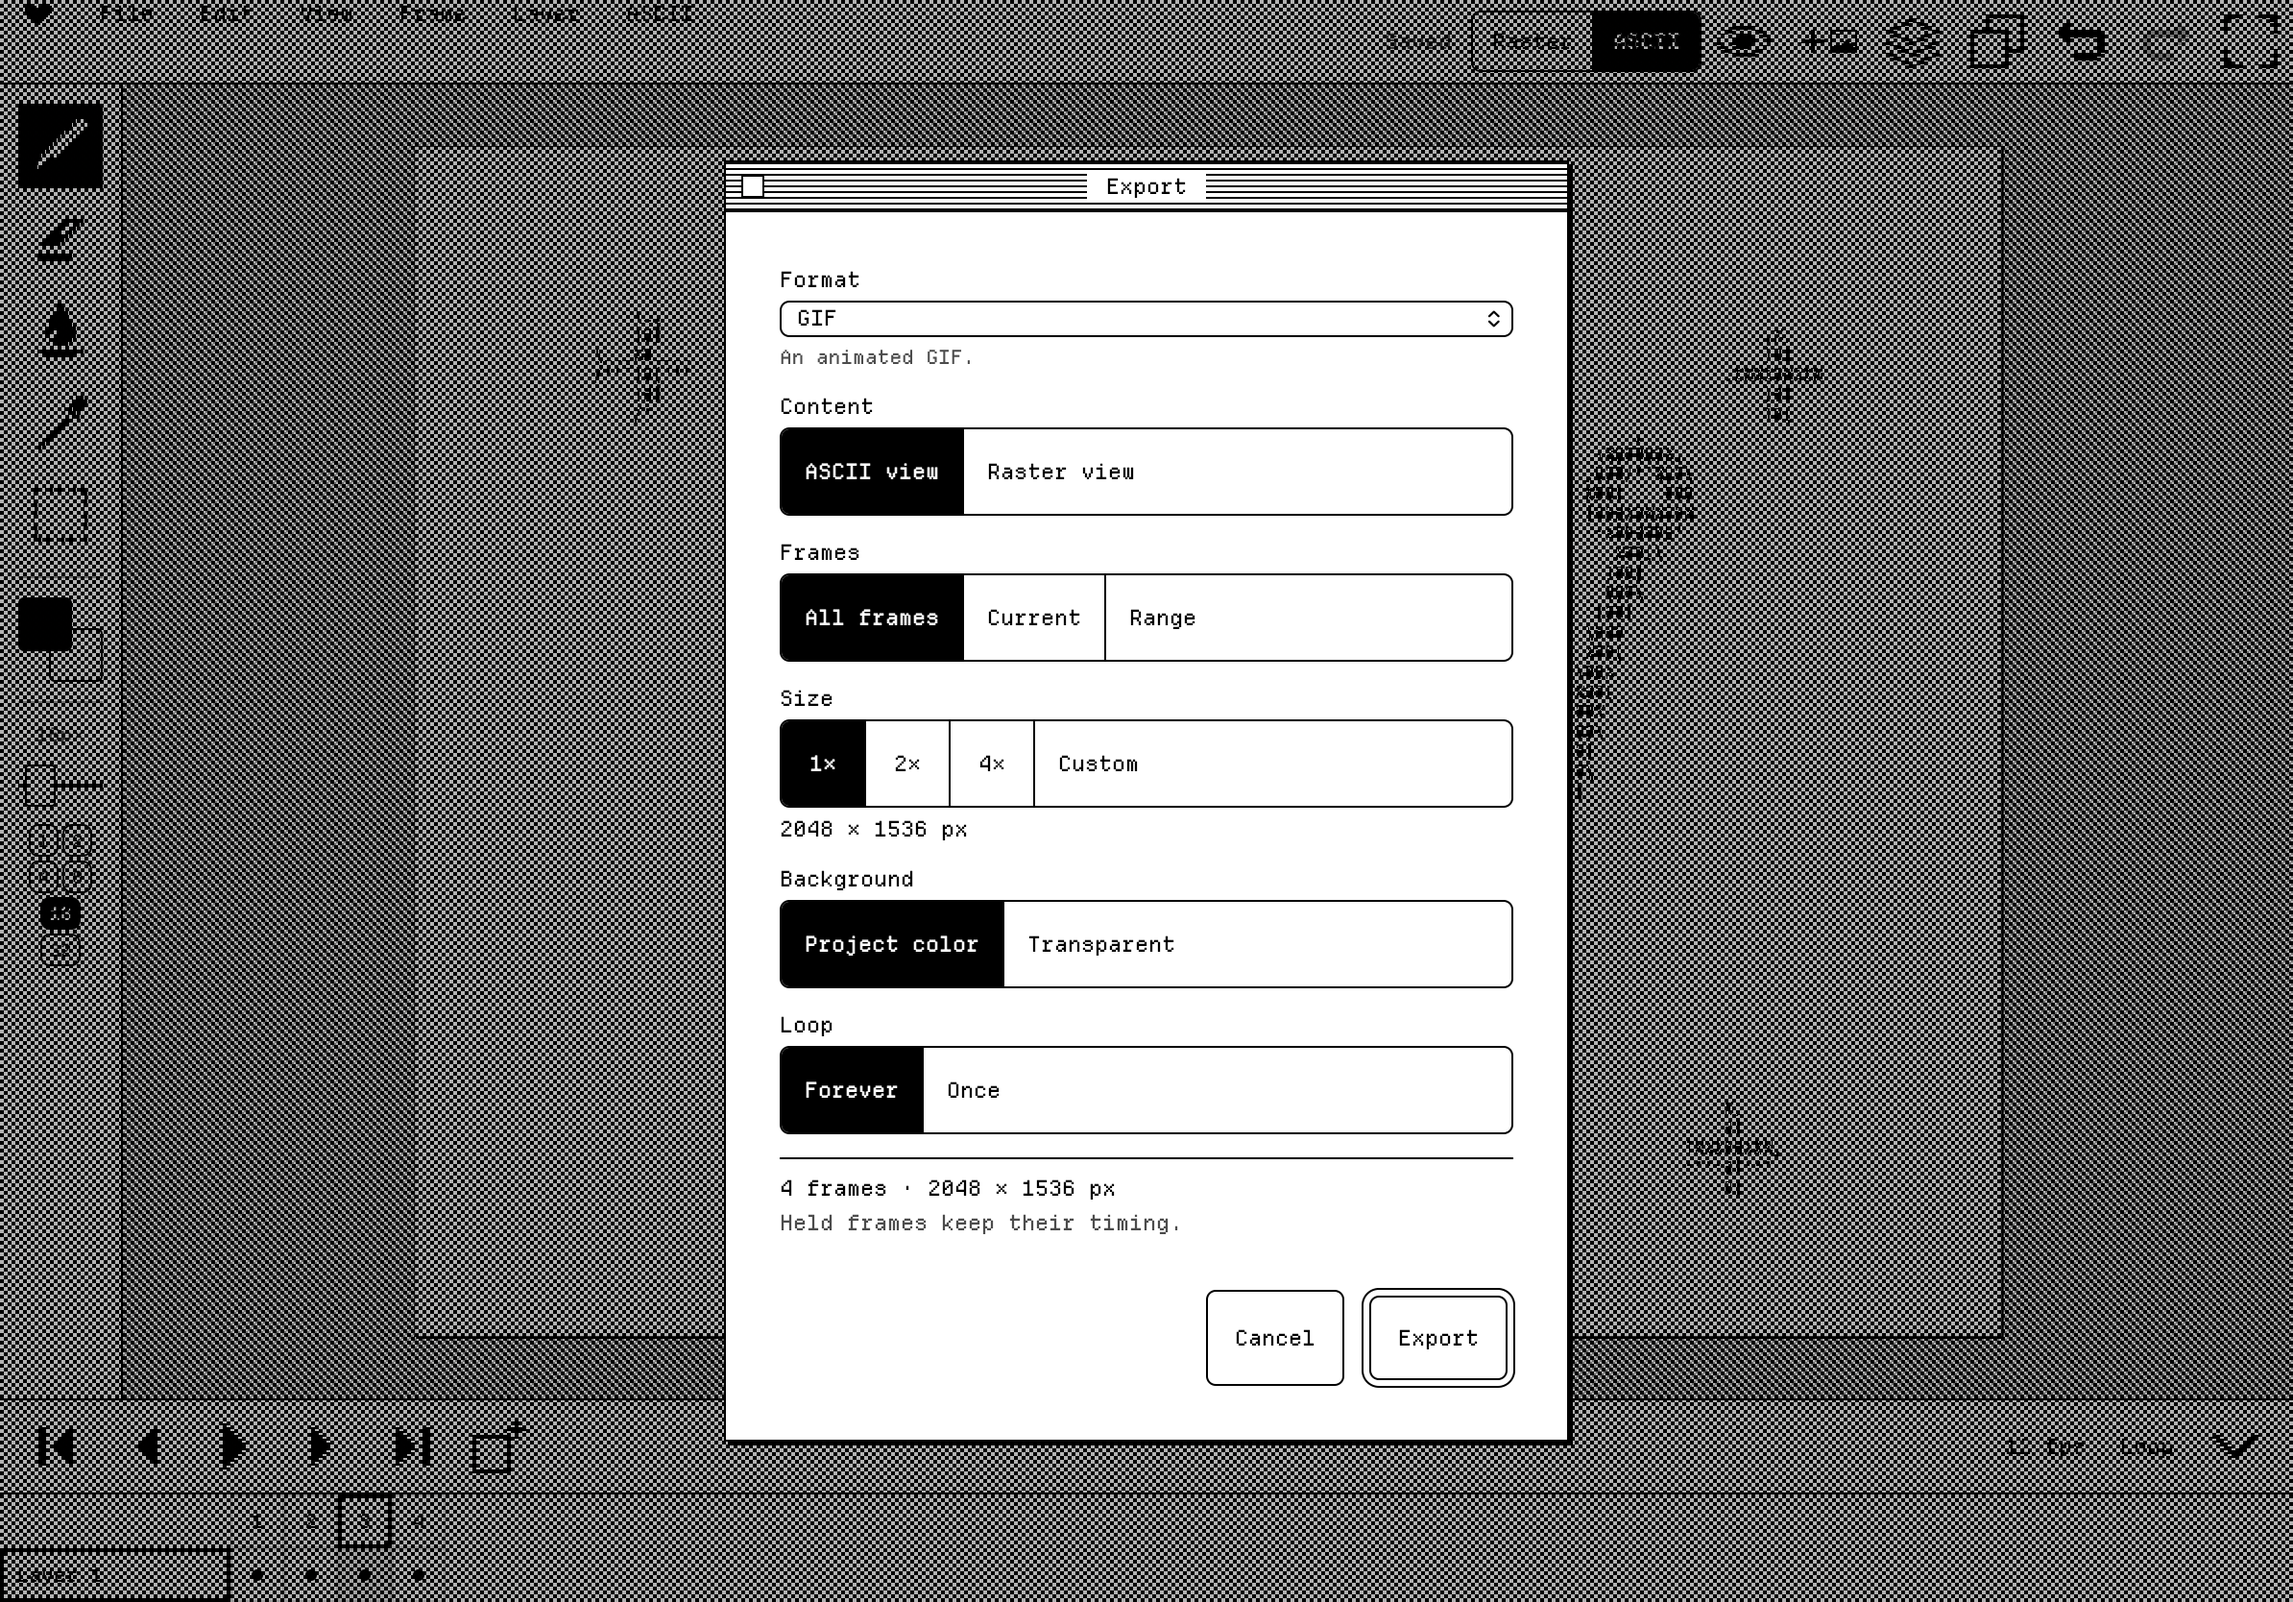
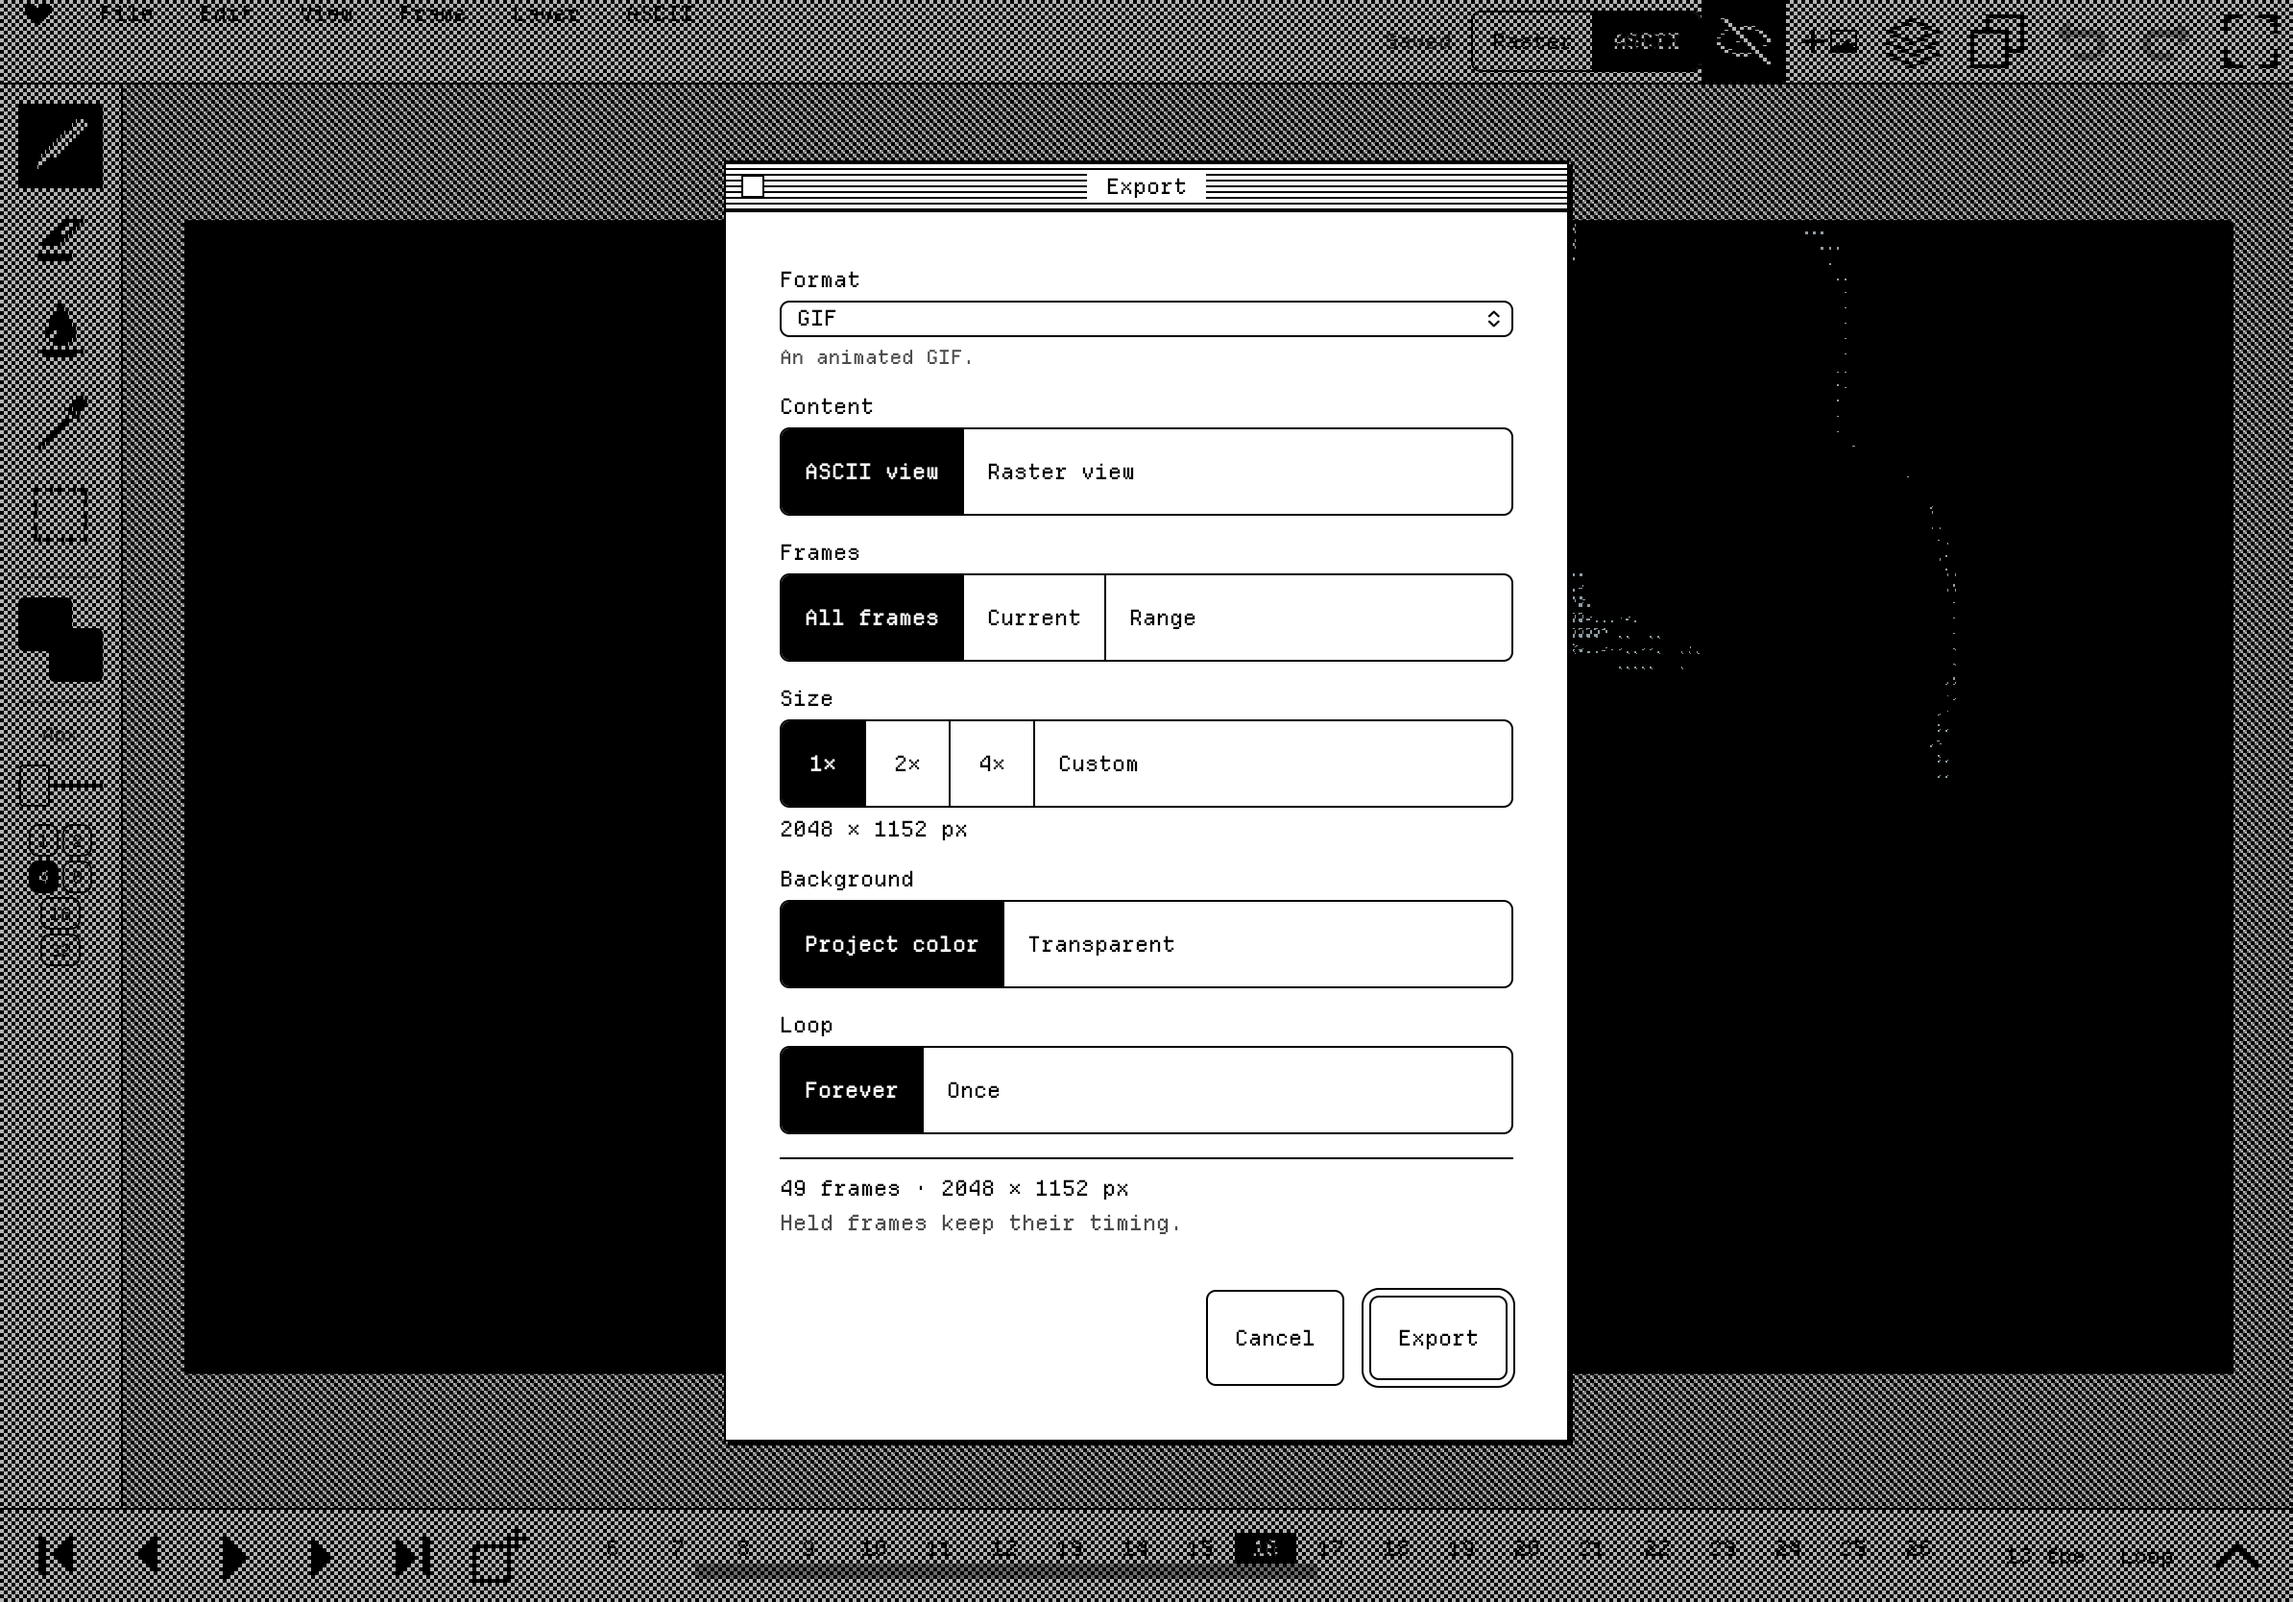
Replace README showcase with screenshots and GIF from a real project

diff --git a/README.md b/README.md
@@ -5,10 +5,15 @@ A retro, minimalist drawing and frame-by-frame animation tool that turns freehan
 No accounts, no server, no analytics, and no network requests after the page loads: everything is one HTML file and your projects live in your browser's storage.
 
 <p align="center">
-  <img src="docs/screenshots/raster-view.png" width="49%" alt="A robot drawn with the pen in the raster view">
-  <img src="docs/screenshots/ascii-view.png" width="49%" alt="The same drawing shown as ASCII characters">
+  <img src="docs/screenshots/animation.gif" width="100%" alt="An ASCII animation of a person opening a fridge, exported from the app">
+  <br><em>A 49-frame rotoscoped animation, exported as a GIF straight from the app.</em>
 </p>
-<p align="center"><em>Draw on the left, flip to ASCII on the right: same drawing, rendered live as characters.</em></p>
+
+<p align="center">
+  <img src="docs/screenshots/raster-with-reference.png" width="49%" alt="Drawing traced over a video reference in the raster view">
+  <img src="docs/screenshots/ascii-view.png" width="49%" alt="The same frame shown as ASCII characters">
+</p>
+<p align="center"><em>Trace over a video frame on the left, flip to ASCII on the right: same drawing, rendered live as characters.</em></p>
 
 ## The idea
 
@@ -24,10 +29,12 @@ The interface looks like a 1984 Macintosh: 1-bit black and white, pixel fonts, s
 
 | | |
 |---|---|
-| ![Timeline with onion skin](docs/screenshots/timeline-onion-skin.png) | ![ASCII settings window](docs/screenshots/ascii-settings.png) |
-| **Frame-by-frame animation.** The expanded timeline, with onion skin showing the previous frame as a tinted ghost. | **ASCII settings.** Grid density, Ramp / Hybrid / Shape styles, character ramps, thresholds, fonts. They can be set per project, per track or per cel. |
-| ![Layers window over the ASCII view](docs/screenshots/layers.png) | ![Export dialog](docs/screenshots/export.png) |
-| **Layers.** Drawing, reference and static tracks, shown here over the ASCII view in Hybrid style. | **Export.** GIF, MP4, PNG, PDF, TXT, ANSI, SVG, a self-contained HTML player and more, in ASCII or raster. |
+| ![Raster view without the reference](docs/screenshots/raster-view.png) | ![ASCII view over the video reference](docs/screenshots/ascii-with-reference.png) |
+| **The drawing itself.** Flat shapes in the raster view, with the reference hidden. | **ASCII over the reference.** The reference stays visible while you work, but it is never converted or exported. |
+| ![Timeline with onion skin](docs/screenshots/timeline-onion-skin.png) | ![Layers window and timeline](docs/screenshots/layers.png) |
+| **Frame-by-frame animation.** The expanded timeline shows every track across 49 frames, with onion skin on. | **Layers.** A video reference track and two drawing tracks, each with visibility, lock and settings. |
+| ![ASCII settings window](docs/screenshots/ascii-settings.png) | ![Export dialog](docs/screenshots/export.png) |
+| **ASCII settings.** Grid density (263 × 74 characters here), Ramp / Hybrid / Shape styles, character ramps, threshold, density, fonts. Set per project, per track or per cel. | **Export.** GIF, MP4, PNG, PDF, TXT, ANSI, SVG, a self-contained HTML player and more, in ASCII or raster. |
 
 <p align="center">
   <img src="docs/screenshots/new-project.png" width="70%" alt="New project dialog">
